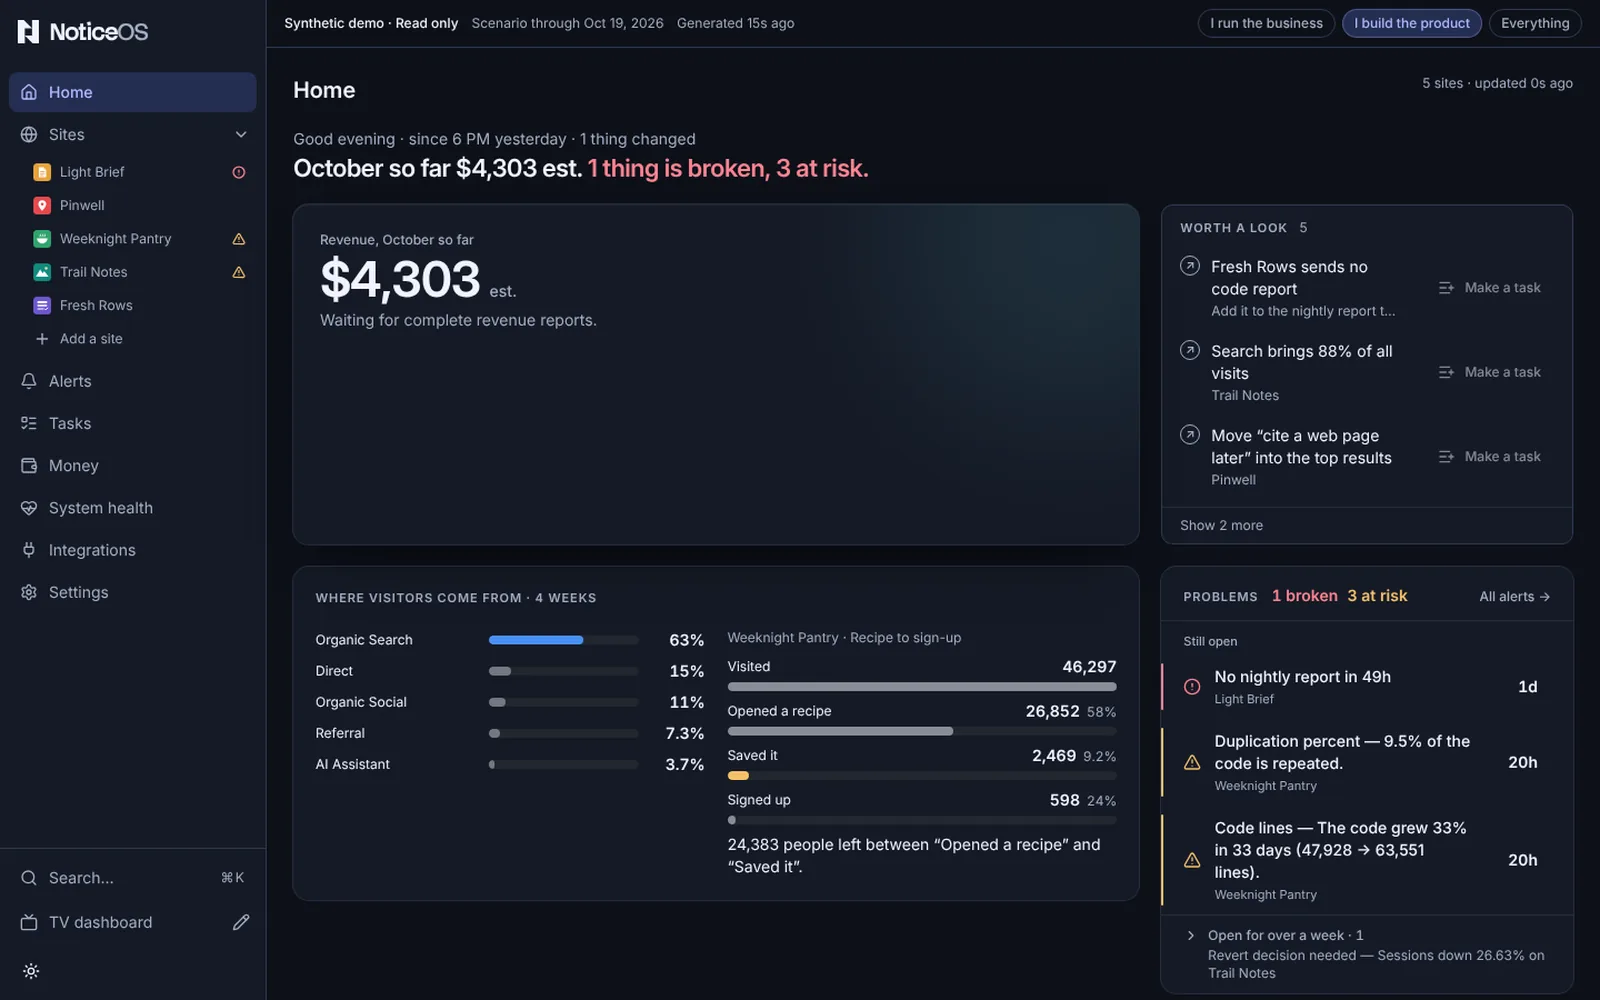
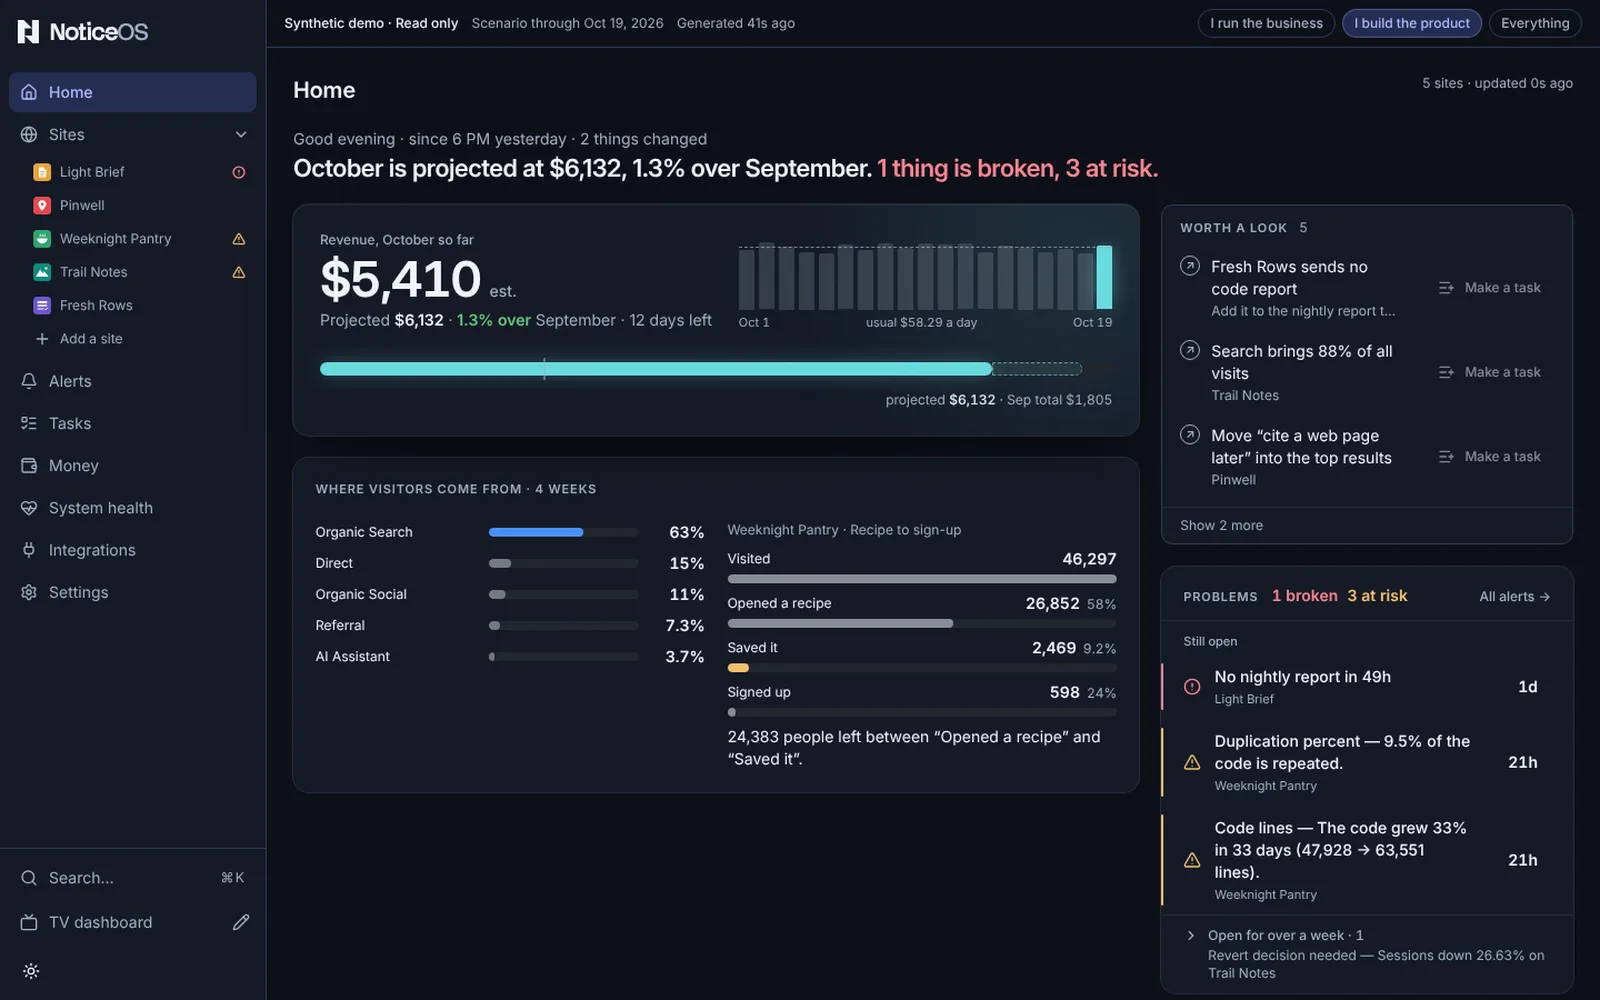
docs: refresh the view screenshots from the demo at the current layout
The six captures show the column stacks, the drawn Code line, the
reconciled Stripe figures and the filled TV widgets; the business Home
alt text names Approve and Answer as the page draws them.

Claude-Session: https://claude.ai/code/session_01FbLm5upKoKTSmT6PL9C43X

diff --git a/docs/tower/home.md b/docs/tower/home.md
@@ -62,7 +62,7 @@ The view chosen on the first run, or later in [Settings → General → **Your v
 
 In **I run the business**, Home opens on **Site health**, with the month's money and **Decide** under it and **The agents · this week** further down:
 
-![The Home page in the synthetic demo, in the I run the business view: the summary starting 1 of 5 sites are fine, Site health with five dots and the problems in words for each of five sites, October's revenue marked so far, and Decide with 5 decisions waiting and an Approve button on each.](../images/tower-home-business.webp)
+![The Home page in the synthetic demo, in the I run the business view: the summary starting 1 of 5 sites are fine, Site health with five dots and the problems in words for each of five sites, Revenue, October marked so far over The agents · this week, and Decide with 5 decisions waiting, Approve on each approval and Answer on each question.](../images/tower-home-business.webp)
 
 In **I build the product**, Home opens on the month's money beside **Worth a look**, then **Where visitors come from · 4 weeks** beside **Problems**, with **Decide** and **Sites** further down:
 
